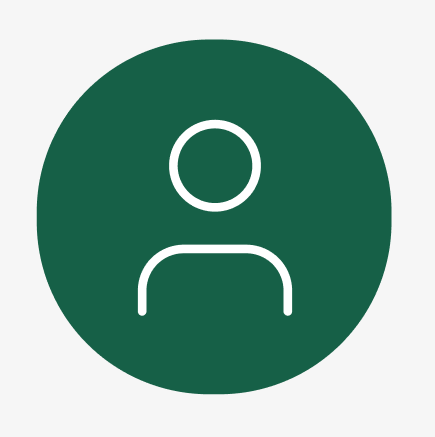
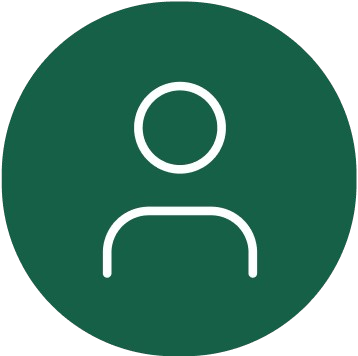
Upload de img de usuario

diff --git a/frontend/js/settings.js b/frontend/js/settings.js
@@ -21,35 +21,52 @@ document.addEventListener("DOMContentLoaded", async () => {
        2. SALVAR ALTERAÇÕES
     ====================================================== */
     form.addEventListener("submit", async (e) => {
-    e.preventDefault();
+        e.preventDefault();
 
-    const updateData = {
-        name: document.getElementById("name").value,
-        bio: document.getElementById("bio").value
-    };
+        const updateData = {
+            name: document.getElementById("name").value,
+            bio: document.getElementById("bio").value
+        };
 
-    const newPassword = document.getElementById("password").value.trim();
-    if (newPassword) {
-        updateData.password = newPassword;
-    }
+        const newPassword = document.getElementById("password").value.trim();
+        if (newPassword) updateData.password = newPassword;
 
-    try {
-        const updatedUser = await api.updateProfile(updateData);
+        // ---------- SE TIVER FOTO ----------
+        const fileInput = document.getElementById("avatar");
+        const file = fileInput.files[0];
 
-        localStorage.setItem("user", JSON.stringify(updatedUser));
+        if (file) {
+            const token = localStorage.getItem("token");
 
-        if (window.setupNavbar) setupNavbar();
+            const formData = new FormData();
+            formData.append("avatar", file);
 
-        alert("Alterações salvas com sucesso!");
-        document.getElementById("password").value = "";
+            const uploadRes = await fetch(`${api.baseUrl}/upload/avatar`, {
+                method: "POST",
+                headers: { "Authorization": `Bearer ${token}` },
+                body: formData
+            });
 
-        window.location.href = "profile.html";
+            const { url } = await uploadRes.json();
+            updateData.avatar = url;
+        }
 
-    } catch (err) {
-        console.error("Erro ao atualizar perfil:", err);
-        alert("Erro ao salvar alterações. Tente novamente.");
-    }
-});
+        // ---------- ATUALIZA PERFIL ----------
+        try {
+            const updatedUser = await api.updateProfile(updateData);
+
+            localStorage.setItem("user", JSON.stringify(updatedUser));
+
+            if (window.setupNavbar) setupNavbar();
+
+            alert("Alterações salvas com sucesso!");
+            window.location.href = "profile.html";
+
+        } catch (err) {
+            console.error("Erro ao atualizar perfil:", err);
+            alert("Erro ao salvar alterações.");
+        }
+    });
 
 
     /* ======================================================

diff --git a/frontend/js/avatar.js b/frontend/js/avatar.js
@@ -1,0 +1,44 @@
+document.addEventListener("DOMContentLoaded", () => {
+    const fileInput = document.getElementById("avatar-input");
+    const previewImg = document.getElementById("user-avatar");
+
+    if (!fileInput) return;
+
+    fileInput.addEventListener("change", async (e) => {
+        const file = e.target.files[0];
+        if (!file) return;
+
+        // Preview imediato
+        previewImg.src = URL.createObjectURL(file);
+
+        const token = localStorage.getItem("token");
+        const form = new FormData();
+        form.append("avatar", file);
+
+        const res = await fetch("http://localhost:3001/api/upload/avatar", {
+            method: "POST",
+            body: form,
+            headers: {
+                "Authorization": `Bearer ${token}`
+            }
+        });
+
+        const data = await res.json();
+
+        if (!data.url) {
+            console.error("Upload falhou:", data);
+            return;
+        }
+
+        // Atualiza avatar na página com a URL do servidor
+        previewImg.src = data.url;
+
+        // Atualiza user no localStorage
+        const user = JSON.parse(localStorage.getItem("user"));
+        user.avatar = data.url;
+        localStorage.setItem("user", JSON.stringify(user));
+
+        // Atualiza navbar
+        if (window.setupNavbar) setupNavbar();
+    });
+});

diff --git a/frontend/js/profile.js b/frontend/js/profile.js
@@ -1,4 +1,5 @@
 document.addEventListener("DOMContentLoaded", async () => {
+    setupAvatarUpload();
     await loadProfileInfo();
     loadProjects();
 });
@@ -16,6 +17,13 @@ async function loadProfileInfo() {
     } catch (err) {
         console.error("Erro ao carregar perfil:", err);
     }
+}
+function setupAvatarUpload() {
+    const avatar = document.getElementById("user-avatar");
+    const input = document.getElementById("avatar-input");
+
+    if (!avatar || !input) return;
+
 }
 
 async function loadProjects() {
@@ -107,3 +115,27 @@ function buildProjectCard(project) {
 
     return card;
 }
+
+document.addEventListener("DOMContentLoaded", () => {
+    const avatarImg = document.getElementById("user-avatar");
+    const modal = document.getElementById("imgModal");
+    const modalImg = document.getElementById("modalImg");
+    const closeBtn = document.getElementById("modalClose"); // AGORA EXISTE
+
+    if (!avatarImg) return;
+
+    avatarImg.addEventListener("click", () => {
+        modal.style.display = "block";
+        modalImg.src = avatarImg.src;
+    });
+
+    closeBtn.addEventListener("click", () => {
+        modal.style.display = "none";
+    });
+
+    modal.addEventListener("click", (e) => {
+        if (e.target === modal) {
+            modal.style.display = "none";
+        }
+    });
+});

diff --git a/frontend/profile.html b/frontend/profile.html
@@ -8,6 +8,7 @@
    <script src="js/api.js" defer></script>
    <script src="js/components.js" defer></script>
    <script src="js/main.js" defer></script>
+   <script src="js/avatar.js" defer></script>
    <script src="js/profile.js" defer></script>
    <title>Perfil | CooperaCom</title>
 </head>
@@ -15,15 +16,20 @@
 
 <header id="navbar"></header>
 
+<div id="imgModal" class="modal">
+    <span id="modalClose" class="close-btn">&times;</span>
+    <img class="modal-content" id="modalImg">
+</div>
+
 <main class="profile-container">
 
     <h1 class="profile-title">Perfil</h1>
 
  <section class="profile-header">
-
+<input type="file" id="avatar-input" accept="image/*" style="display:none">
   <div class="profile-left">
     <div class="profile-avatar">
-      <img id="user-avatar" src="img/default-avatar.png" alt="Foto do usuário">
+      <img id="user-avatar" src="img/default-avatar.png" alt="Foto do usuário" style="cursor:pointer;">
     </div>
     <h2 id="user-name">Carregando...</h2>
     <p id="user-bio">...</p>

diff --git a/frontend/css/pages/profile.css b/frontend/css/pages/profile.css
@@ -32,6 +32,7 @@ body {
     height: 180px;
     border-radius: 50%;
     background: #175b43;
+    border: 4px solid #f4a261;
     display: flex;
     justify-content: center;
     align-items: center;
@@ -207,4 +208,36 @@ body {
     padding-right: 6px;  /* evita que o texto encoste na barra */
     line-height: 1.4;
     white-space: pre-line; /* mantém quebras de linha */
+}
+
+.modal {
+    display: none;
+    position: fixed;
+    z-index: 9999;
+    padding-top: 80px; /* mais espaço para não colar na navbar */
+    left: 0;
+    top: 0;
+    width: 100%;
+    height: 100%;
+    overflow: auto;
+    background-color: rgba(0,0,0,0.9);
+}
+
+.modal-content {
+    margin: auto;
+    display: block;
+    max-width: 70vw;
+    max-height: 70vh;
+    object-fit: contain;
+    border-radius: 12px;
+}
+
+.close-btn {
+    position: fixed;
+    top: 30px;
+    right: 40px;
+    font-size: 45px;
+    cursor: pointer;
+    color: white;
+    z-index: 10000;
 }

diff --git a/frontend/settings.html b/frontend/settings.html
@@ -25,6 +25,12 @@
       </div>
 
       <div>
+          <label for="avatar">Foto de perfil</label>
+          <input type="file" id="avatar" name="avatar" accept="image/*">
+      </div>
+
+
+      <div>
         <label for="bio">Biografia</label>
         <textarea id="bio" name="bio" placeholder="Conte um pouco sobre você..."></textarea>
       </div>
